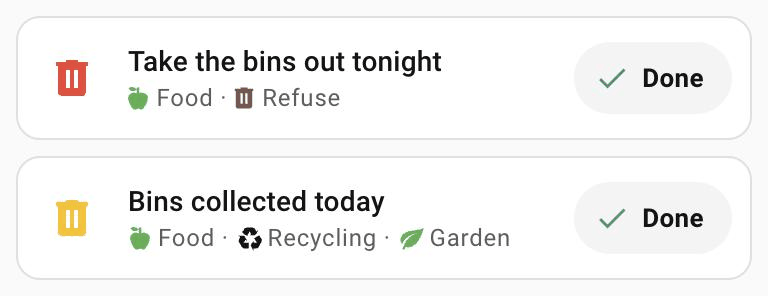
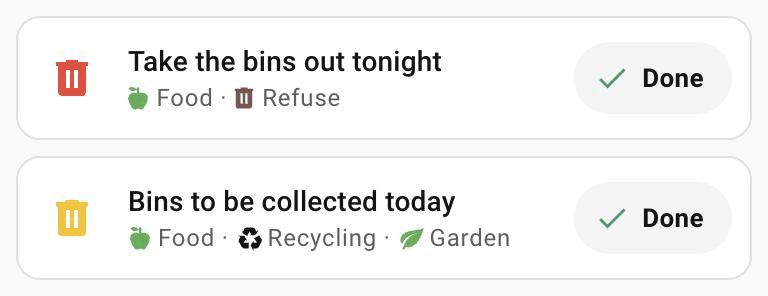
Bin day card README: screenshot with the 1.1.0 wording
The screenshot now shows "Bins to be collected today", taken from the live
dashboard at phone width with example dates.

Claude-Session: https://claude.ai/code/session_016RetwJc9eBvwySveJgJSUX

Changed region(s): [[0.25, 0.6385, 0.5938, 0.7297]]

diff --git a/cards/bin-day-card/README.md b/cards/bin-day-card/README.md
@@ -8,7 +8,7 @@ its glyph in the bin's own colour, and a **Done** button on each alert.
   <img src="../../docs/screenshots/bin-day-card.png" alt="bin-day-card: the evening alert and the collection-day alert" width="384">
 </p>
 
-*Example dates: the evening before a refuse week, and a recycling week's collection day.*
+*Example dates: the evening before a refuse week, and a recycling week's collection day from 07:00.*
 
 - **Only there while it matters.** The card shows from the evening before a collection (18:00 by
   default) until the end of collection day. Both times come from time helpers. The rest of the week it hides
